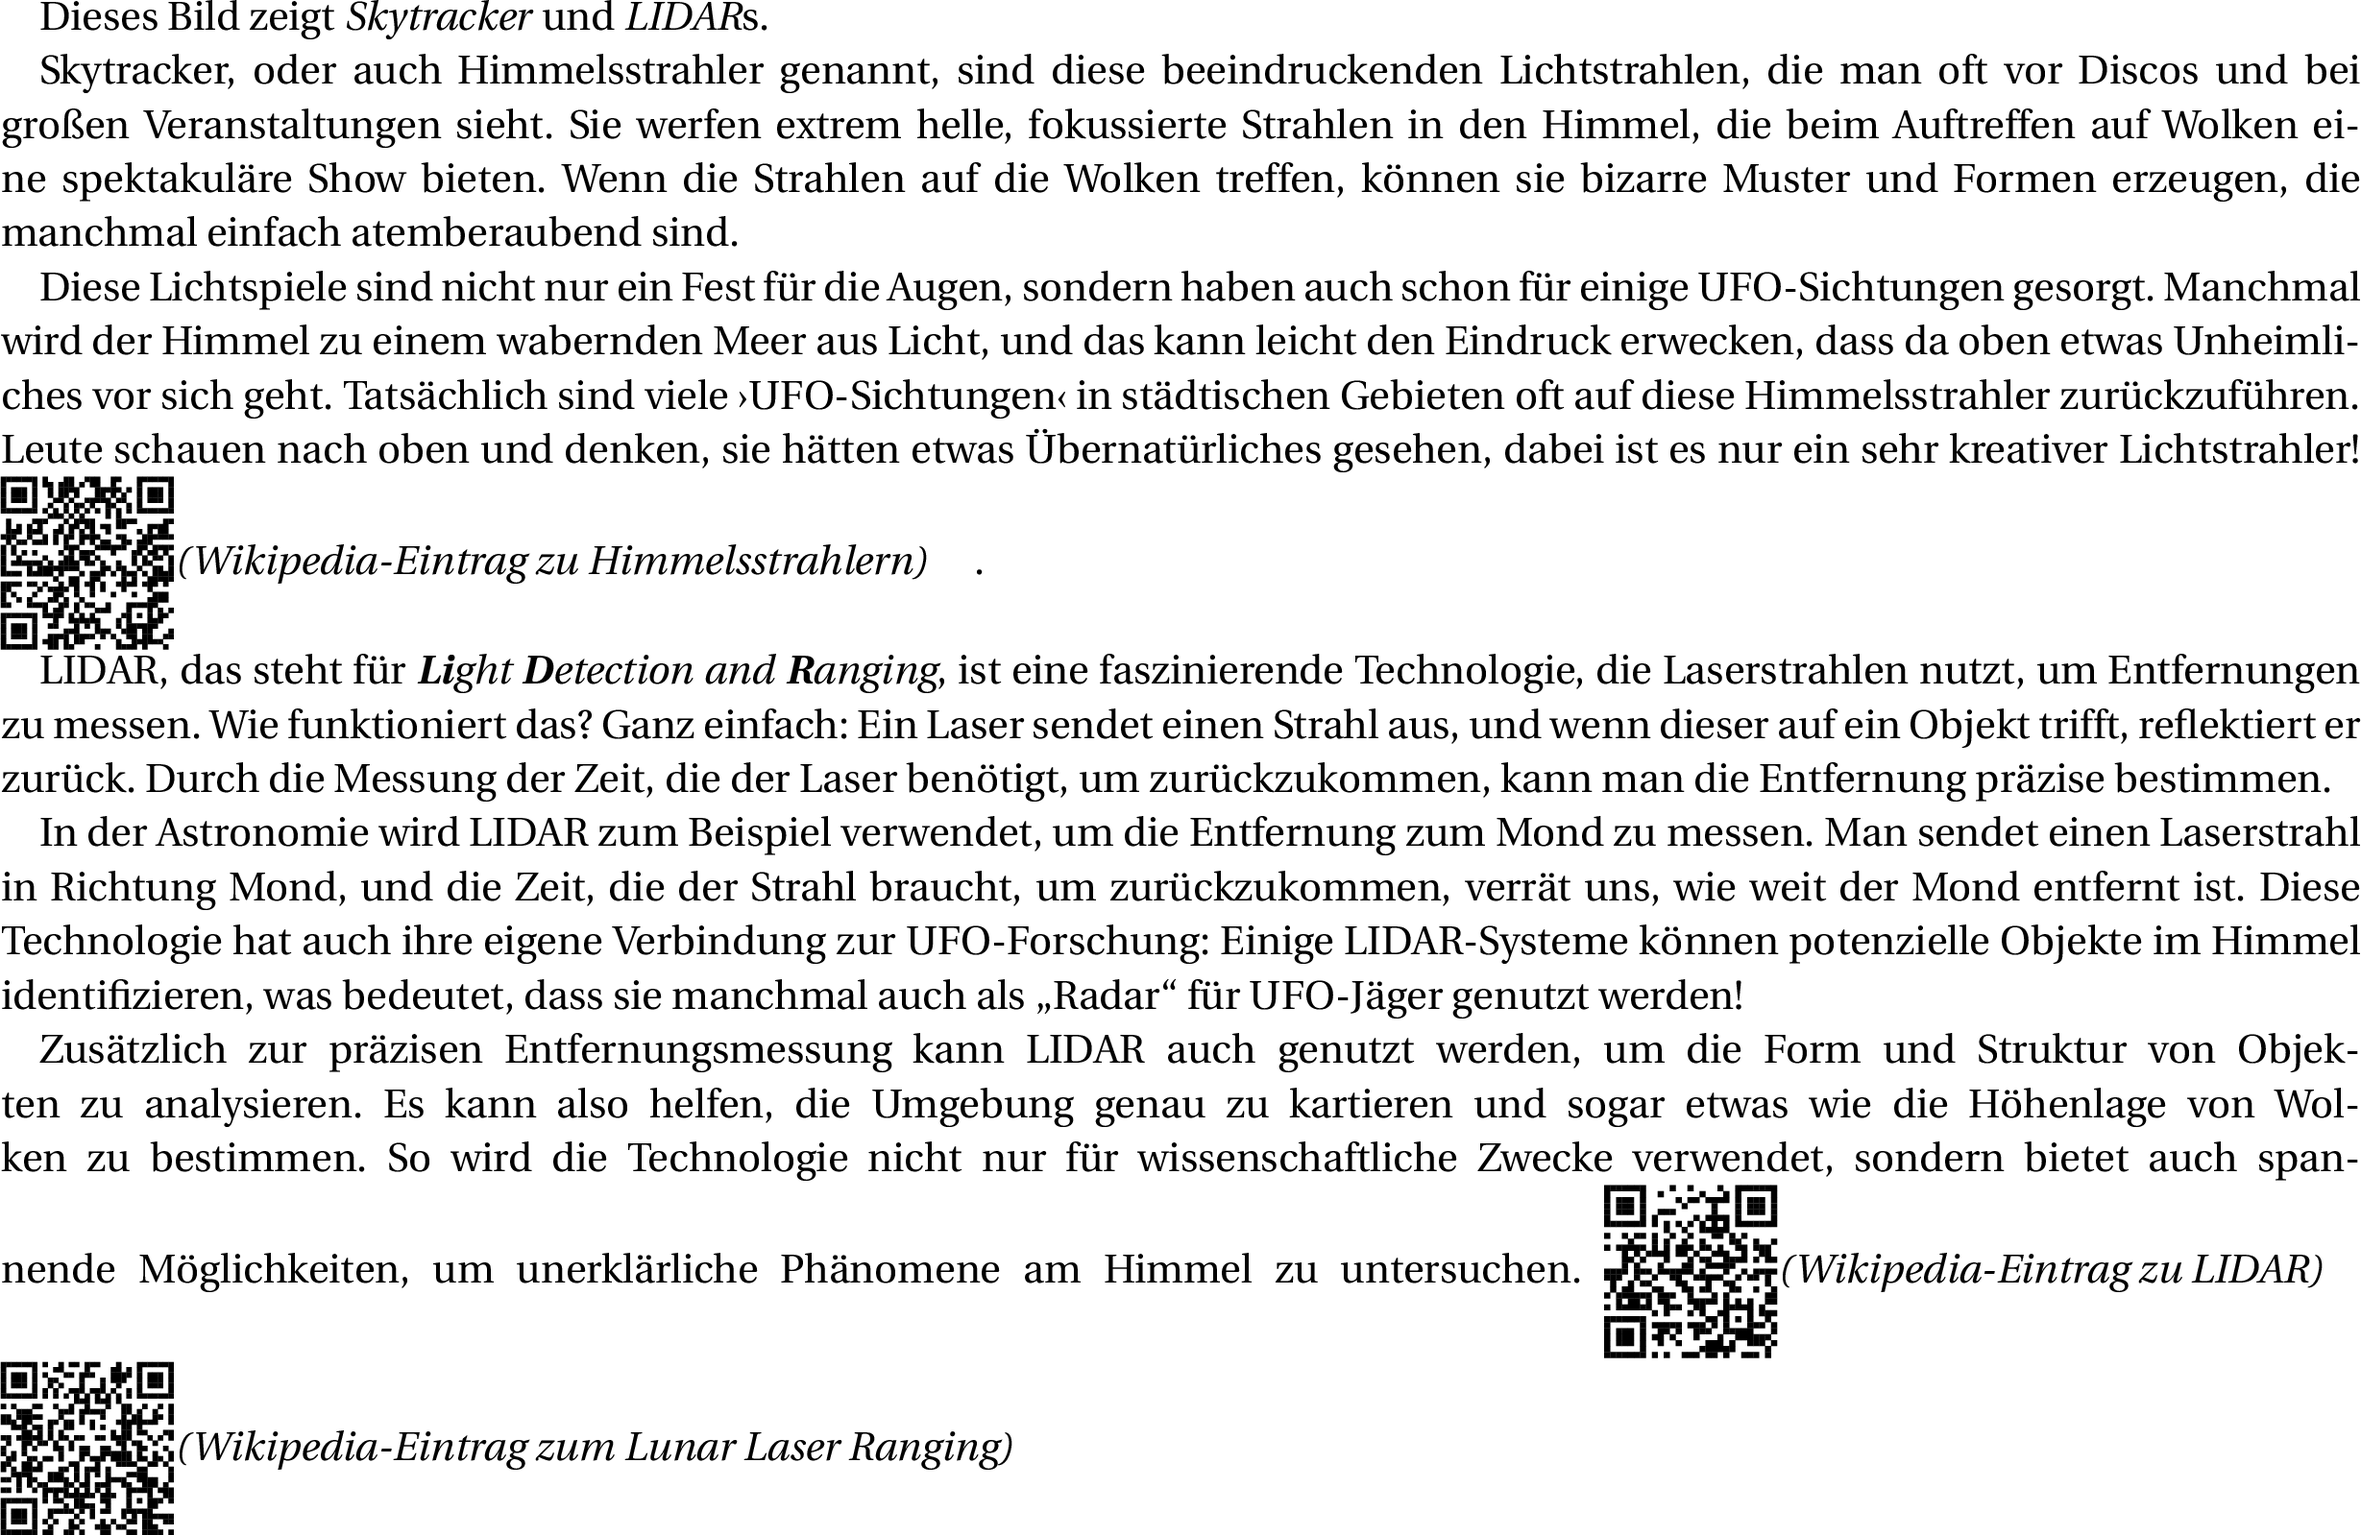
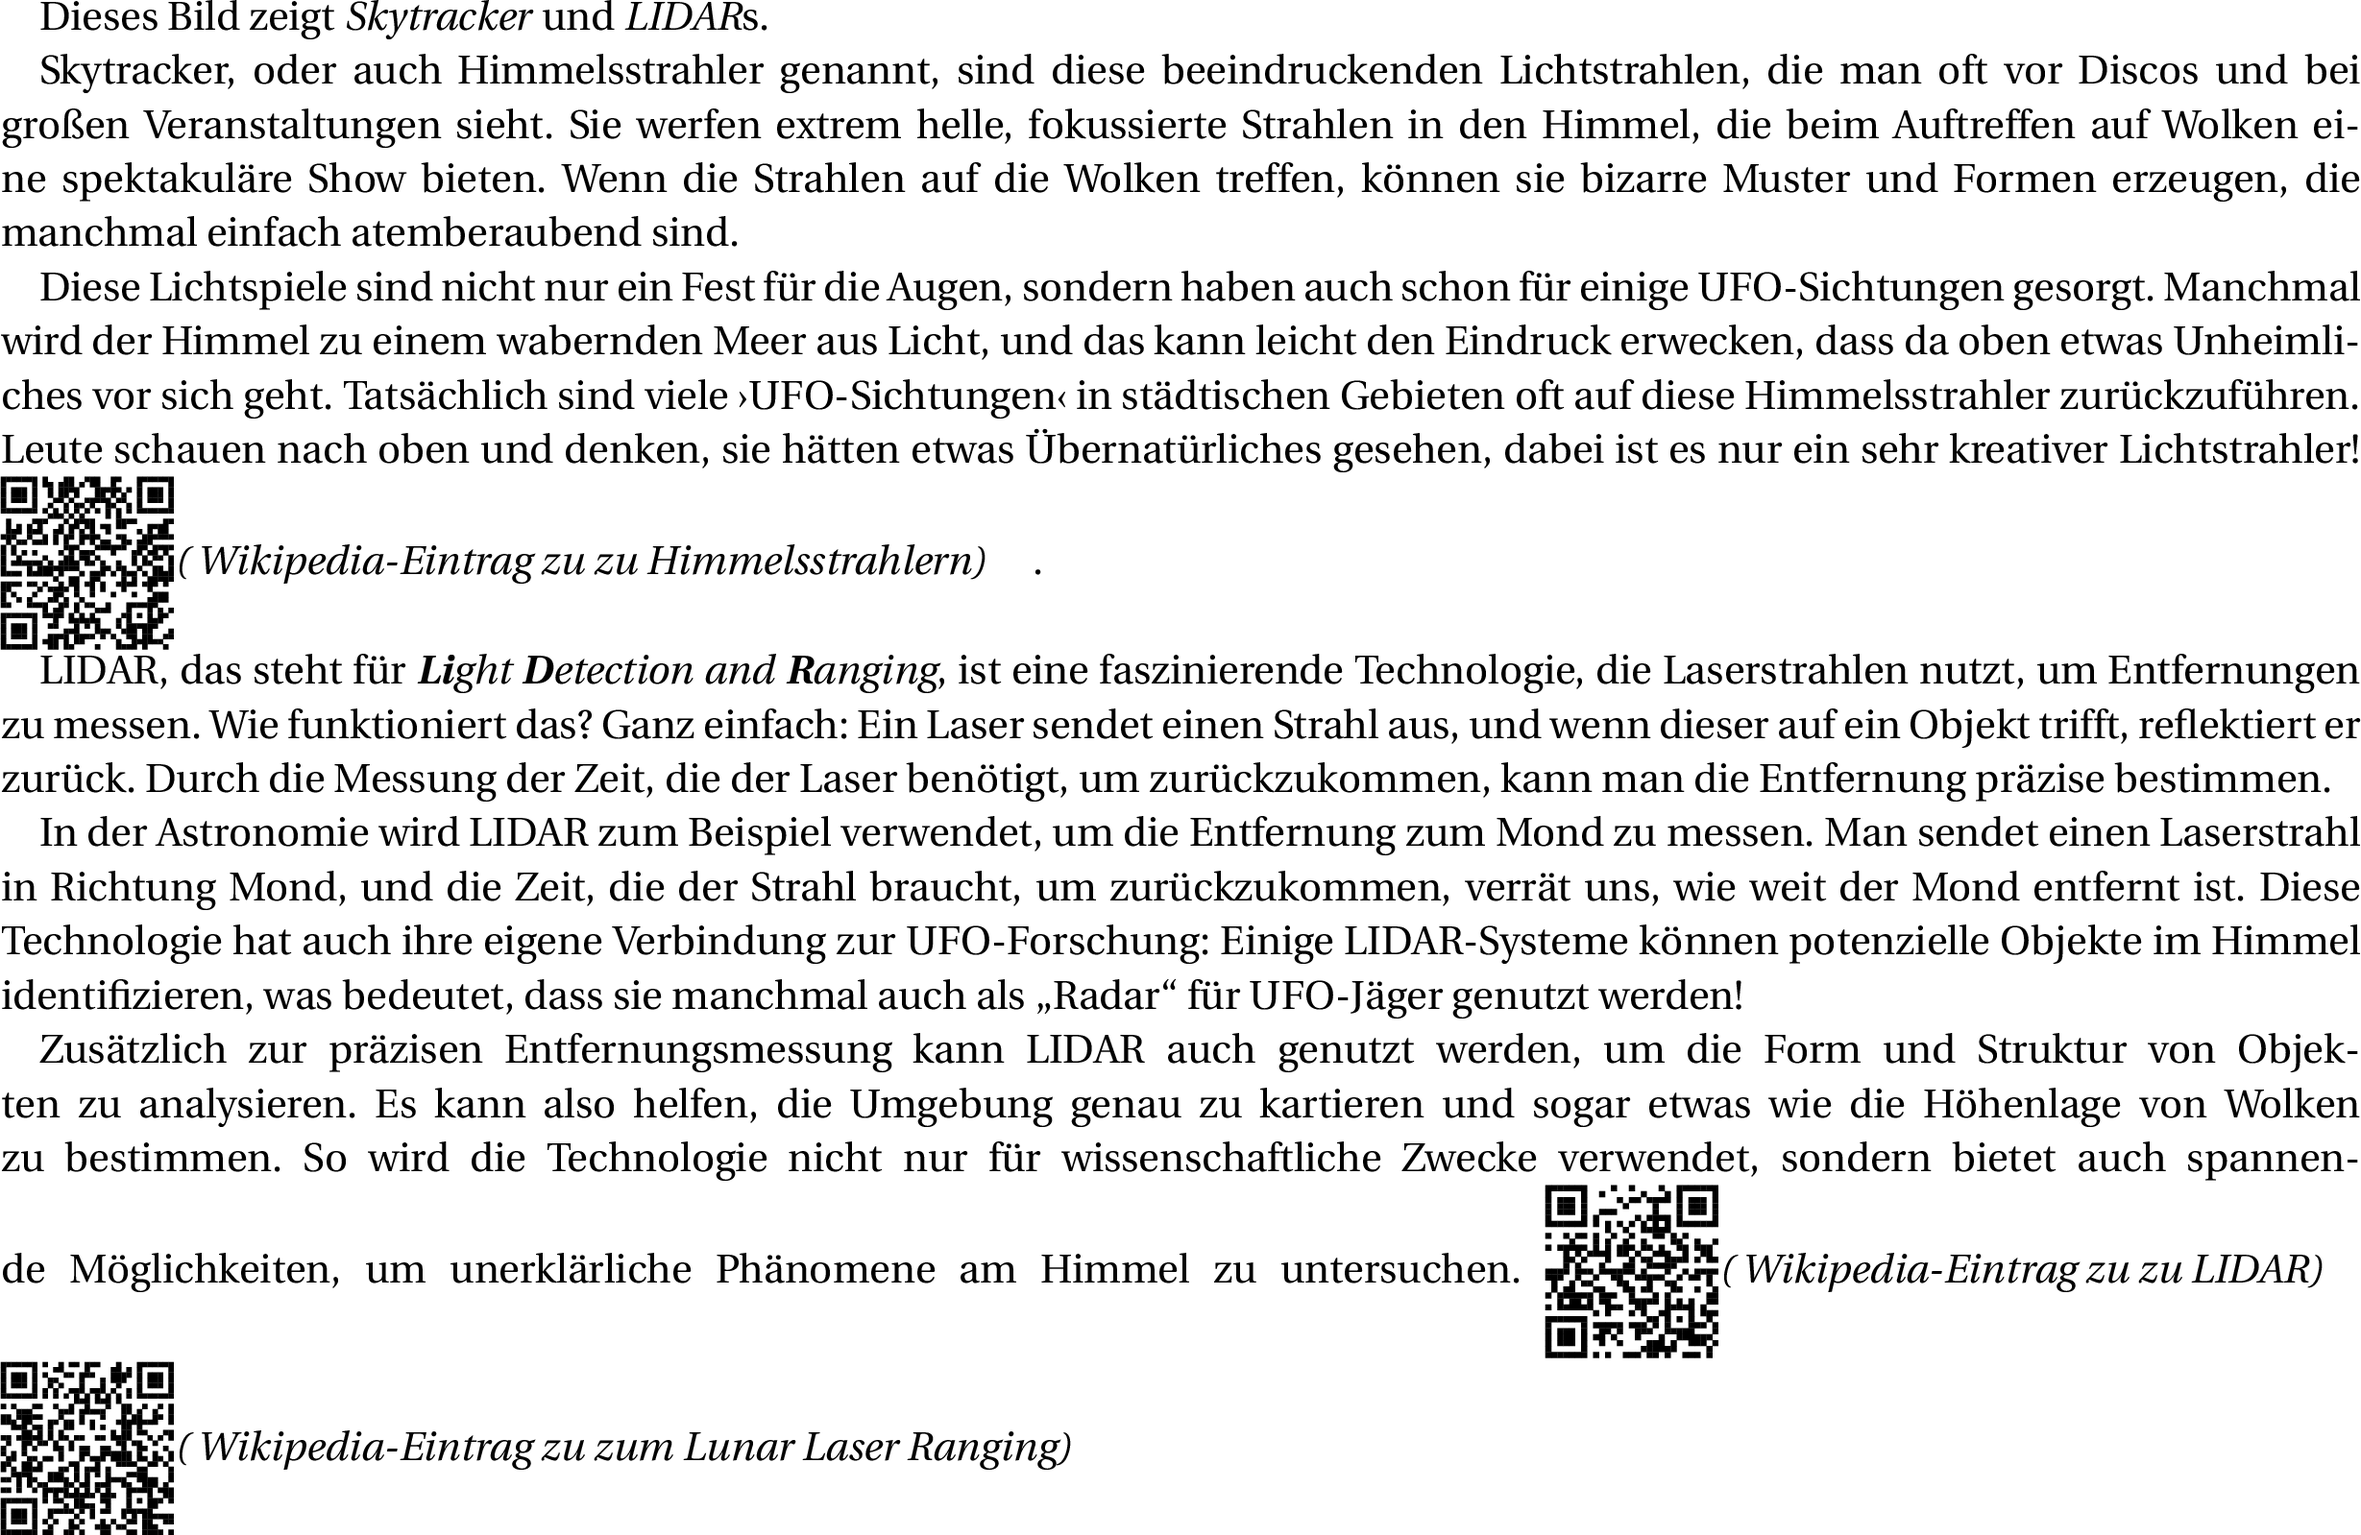
fix

Changed region(s): [[0.0, 0.7048, 1.0, 0.8887], [0.0928, 0.3371, 0.402, 0.3984], [0.0618, 0.9193, 0.4638, 0.95]]

diff --git a/poster/16/16.tex b/poster/16/16.tex
@@ -13,12 +13,12 @@ Dieses Bild zeigt \textit{Skytracker} und \textit{LIDAR}s.
 
 Skytracker, oder auch Himmelsstrahler genannt, sind diese beeindruckenden Lichtstrahlen, die man oft vor Discos und bei großen Veranstaltungen sieht. Sie werfen extrem helle, fokussierte Strahlen in den Himmel, die beim Auftreffen auf Wolken eine spektakuläre Show bieten. Wenn die Strahlen auf die Wolken treffen, können sie bizarre Muster und Formen erzeugen, die manchmal einfach atemberaubend sind.
 
-Diese Lichtspiele sind nicht nur ein Fest für die Augen, sondern haben auch schon für einige UFO-Sichtungen gesorgt. Manchmal wird der Himmel zu einem wabernden Meer aus Licht, und das kann leicht den Eindruck erwecken, dass da oben etwas Unheimliches vor sich geht. Tatsächlich sind viele \frq UFO-Sichtungen\flq\ in städtischen Gebieten oft auf diese Himmelsstrahler zurückzuführen. Leute schauen nach oben und denken, sie hätten etwas Übernatürliches gesehen, dabei ist es nur ein sehr kreativer Lichtstrahler! \qr[Wikipedia-Eintrag zu Himmelsstrahlern]{https://de.wikipedia.org/wiki/Himmelsstrahler}.
+Diese Lichtspiele sind nicht nur ein Fest für die Augen, sondern haben auch schon für einige UFO-Sichtungen gesorgt. Manchmal wird der Himmel zu einem wabernden Meer aus Licht, und das kann leicht den Eindruck erwecken, dass da oben etwas Unheimliches vor sich geht. Tatsächlich sind viele \frq UFO-Sichtungen\flq\ in städtischen Gebieten oft auf diese Himmelsstrahler zurückzuführen. Leute schauen nach oben und denken, sie hätten etwas Übernatürliches gesehen, dabei ist es nur ein sehr kreativer Lichtstrahler! \qr[\wikipedia  zu Himmelsstrahlern]{https://de.wikipedia.org/wiki/Himmelsstrahler}.
 
 LIDAR, das steht für \textit{\textbf{Li}ght \textbf{D}etection and \textbf{R}anging}, ist eine faszinierende Technologie, die Laserstrahlen nutzt, um Entfernungen zu messen. Wie funktioniert das? Ganz einfach: Ein Laser sendet einen Strahl aus, und wenn dieser auf ein Objekt trifft, reflektiert er zurück. Durch die Messung der Zeit, die der Laser benötigt, um zurückzukommen, kann man die Entfernung präzise bestimmen.
 
 In der Astronomie wird LIDAR zum Beispiel verwendet, um die Entfernung zum Mond zu messen. Man sendet einen Laserstrahl in Richtung Mond, und die Zeit, die der Strahl braucht, um zurückzukommen, verrät uns, wie weit der Mond entfernt ist. Diese Technologie hat auch ihre eigene Verbindung zur UFO-Forschung: Einige LIDAR-Systeme können potenzielle Objekte im Himmel identifizieren, was bedeutet, dass sie manchmal auch als „Radar“ für UFO-Jäger genutzt werden!
 
-Zusätzlich zur präzisen Entfernungsmessung kann LIDAR auch genutzt werden, um die Form und Struktur von Objekten zu analysieren. Es kann also helfen, die Umgebung genau zu kartieren und sogar etwas wie die Höhenlage von Wolken zu bestimmen. So wird die Technologie nicht nur für wissenschaftliche Zwecke verwendet, sondern bietet auch spannende Möglichkeiten, um unerklärliche Phänomene am Himmel zu untersuchen. \qr[Wikipedia-Eintrag zu LIDAR]{https://en.wikipedia.org/wiki/Lidar} \qr[Wikipedia-Eintrag zum Lunar Laser Ranging]{https://de.wikipedia.org/wiki/Lunar_Laser_Ranging}
+Zusätzlich zur präzisen Entfernungsmessung kann LIDAR auch genutzt werden, um die Form und Struktur von Objekten zu analysieren. Es kann also helfen, die Umgebung genau zu kartieren und sogar etwas wie die Höhenlage von Wolken zu bestimmen. So wird die Technologie nicht nur für wissenschaftliche Zwecke verwendet, sondern bietet auch spannende Möglichkeiten, um unerklärliche Phänomene am Himmel zu untersuchen. \qr[\wikipedia  zu LIDAR]{https://en.wikipedia.org/wiki/Lidar} \qr[\wikipedia  zum Lunar Laser Ranging]{https://de.wikipedia.org/wiki/Lunar_Laser_Ranging}
 
 \end{document}

diff --git a/poster/header.tex b/poster/header.tex
@@ -51,3 +51,7 @@
     paperwidth=25cm, % Breite der Seite
     paperheight=29.7cm % Höhe der Seite (A4)
 }
+
+\newcommand{\wikipedia}{
+Wikipedia-Eintrag zu
+}
